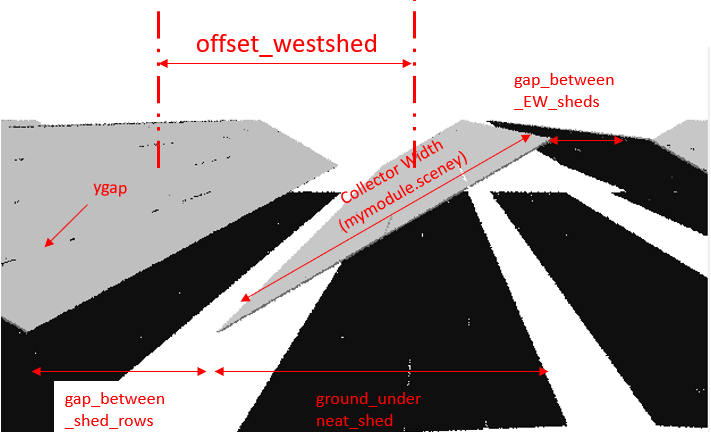
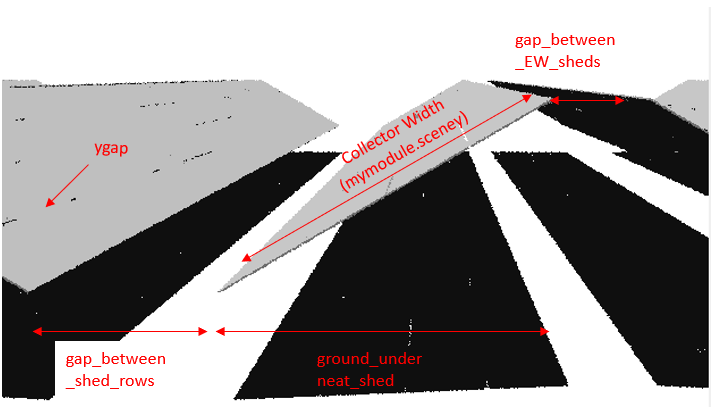
small update journal 19
small update journal -- image definition of offset_westshed

diff --git a/docs/tutorials/19 - Example Simulation - East West Sheds.html b/docs/tutorials/19 - Example Simulation - East West Sheds.html
@@ -14023,7 +14023,7 @@ a.anchor-link {
 
 
 <div class="jp-RenderedText jp-OutputArea-output jp-OutputArea-executeResult" data-mime-type="text/plain">
-<pre>&#39;0.3.4+359.g5849bc6.dirty&#39;</pre>
+<pre>&#39;0.3.4+360.g7d24f48.dirty&#39;</pre>
 </div>
 
 </div>
@@ -14156,6 +14156,7 @@ Pre-existing .rad file objects\Prism_West.rad will be overwritten
 <div class="jp-Cell-inputWrapper"><div class="jp-InputPrompt jp-InputArea-prompt">
 </div><div class="jp-RenderedHTMLCommon jp-RenderedMarkdown jp-MarkdownOutput " data-mime-type="text/markdown">
 <p>Calculate the spacings so we can offset the West Facing modules properly:</p>
+<p><img src="../images_wiki/AdvancedJournals/EW_sheds_Offset.PNG" alt="East West Sheds Example"></p>
 
 </div>
 </div><div class="jp-Cell jp-CodeCell jp-Notebook-cell jp-mod-noOutputs  ">
@@ -14282,7 +14283,7 @@ Pre-existing .rad file objects\Prism_West.rad will be overwritten
 <div class="jp-InputPrompt jp-InputArea-prompt">In&nbsp;[9]:</div>
 <div class="jp-CodeMirrorEditor jp-Editor jp-InputArea-editor" data-type="inline">
      <div class="CodeMirror cm-s-jupyter">
-<div class=" highlight hl-ipython3"><pre><span></span><span class="c1"># !rvu -vf views\front.vp -e .01 -pe 0.3 -vp 1 -45 40 -vd 0 0.7 -0.7 MultipleObj.oct</span>
+<div class=" highlight hl-ipython3"><pre><span></span><span class="ch">#!rvu -vf views\front.vp -e .01 -pe 0.3 -vp 1 -45 40 -vd 0 0.7 -0.7 MultipleObj.oct</span>
 </pre></div>
 
      </div>

diff --git a/docs/tutorials/19 - Example Simulation - East West Sheds.py b/docs/tutorials/19 - Example Simulation - East West Sheds.py
@@ -57,6 +57,10 @@ mymoduleWest = demo.makeModule(name='Prism West',y=y,x=x, numpanels=numpanels, y
 
 
 # Calculate the spacings so we can offset the West Facing modules properly:
+# 
+# ![East West Sheds Example](../images_wiki/AdvancedJournals/EW_sheds_Offset.PNG)
+# 
+# 
 
 # In[5]:
 
@@ -113,7 +117,7 @@ octfile = demo.makeOct(demo.getfilelist())
 # In[9]:
 
 
-# !rvu -vf views\front.vp -e .01 -pe 0.3 -vp 1 -45 40 -vd 0 0.7 -0.7 MultipleObj.oct
+#!rvu -vf views\front.vp -e .01 -pe 0.3 -vp 1 -45 40 -vd 0 0.7 -0.7 MultipleObj.oct
 
 
 # another view, close up:
